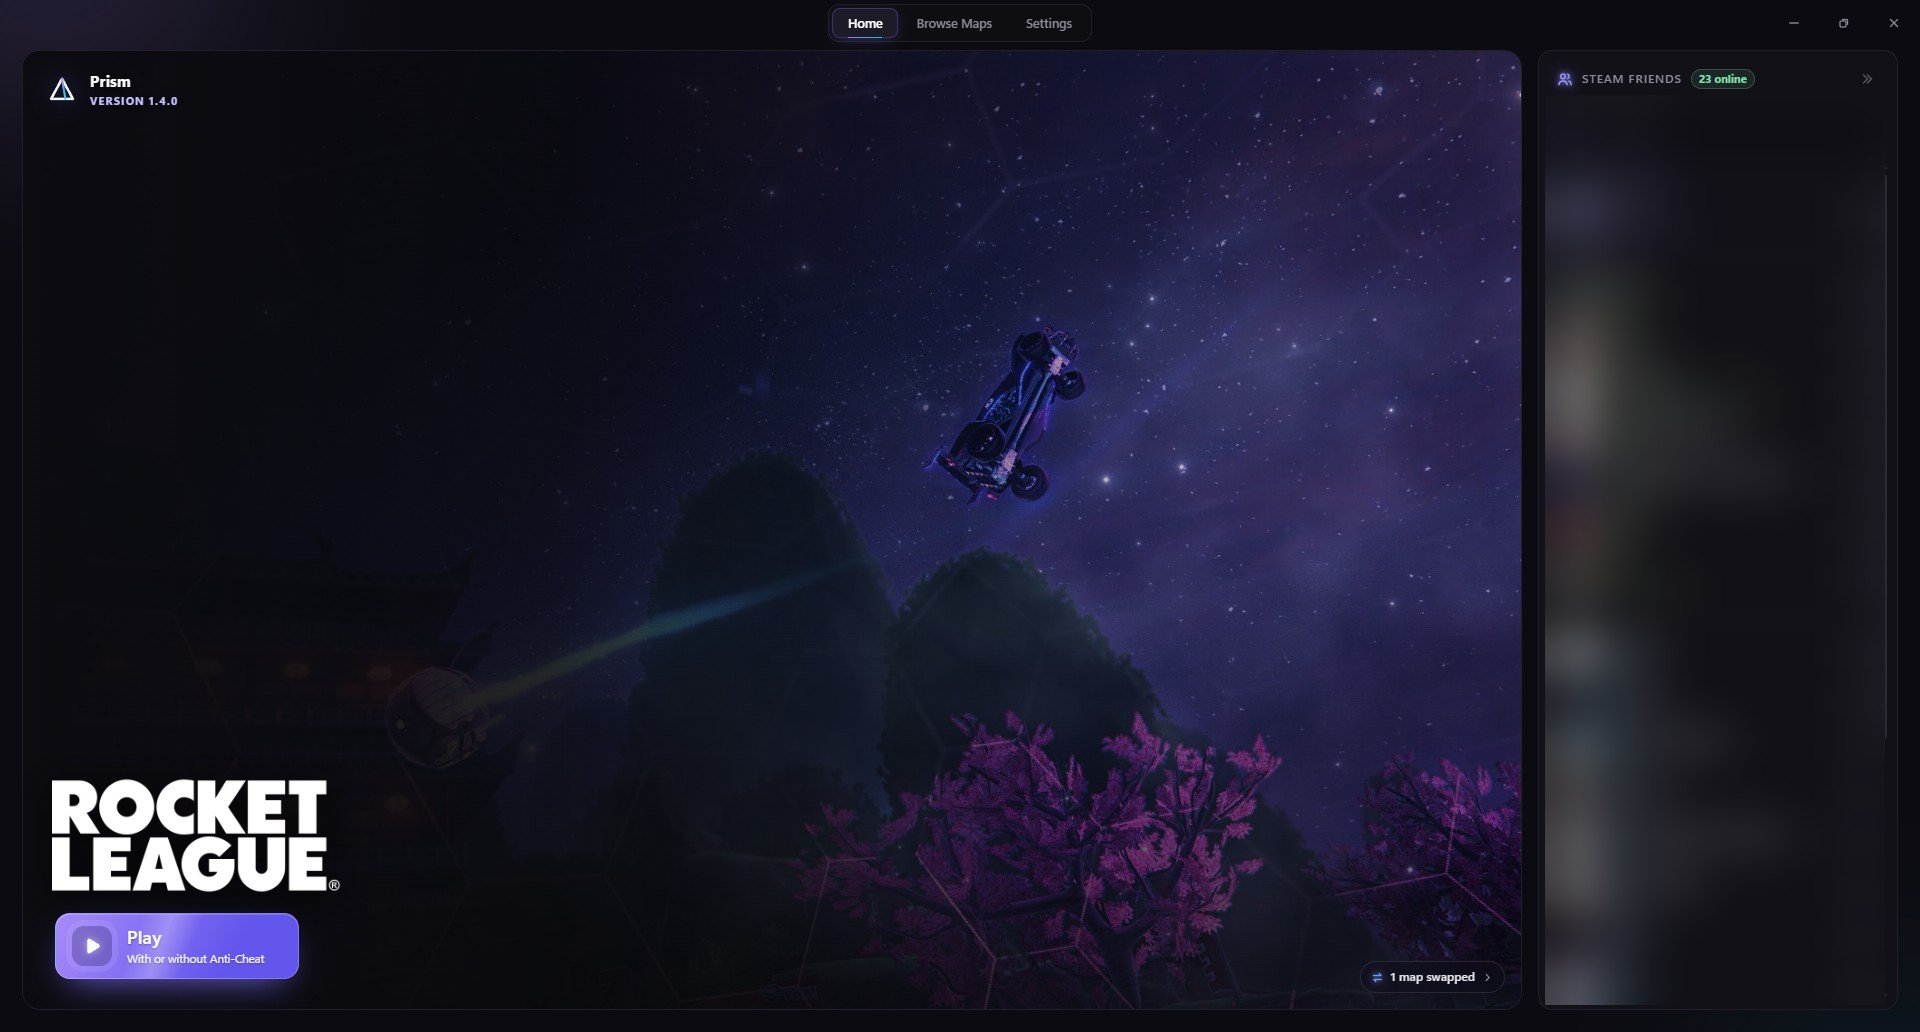
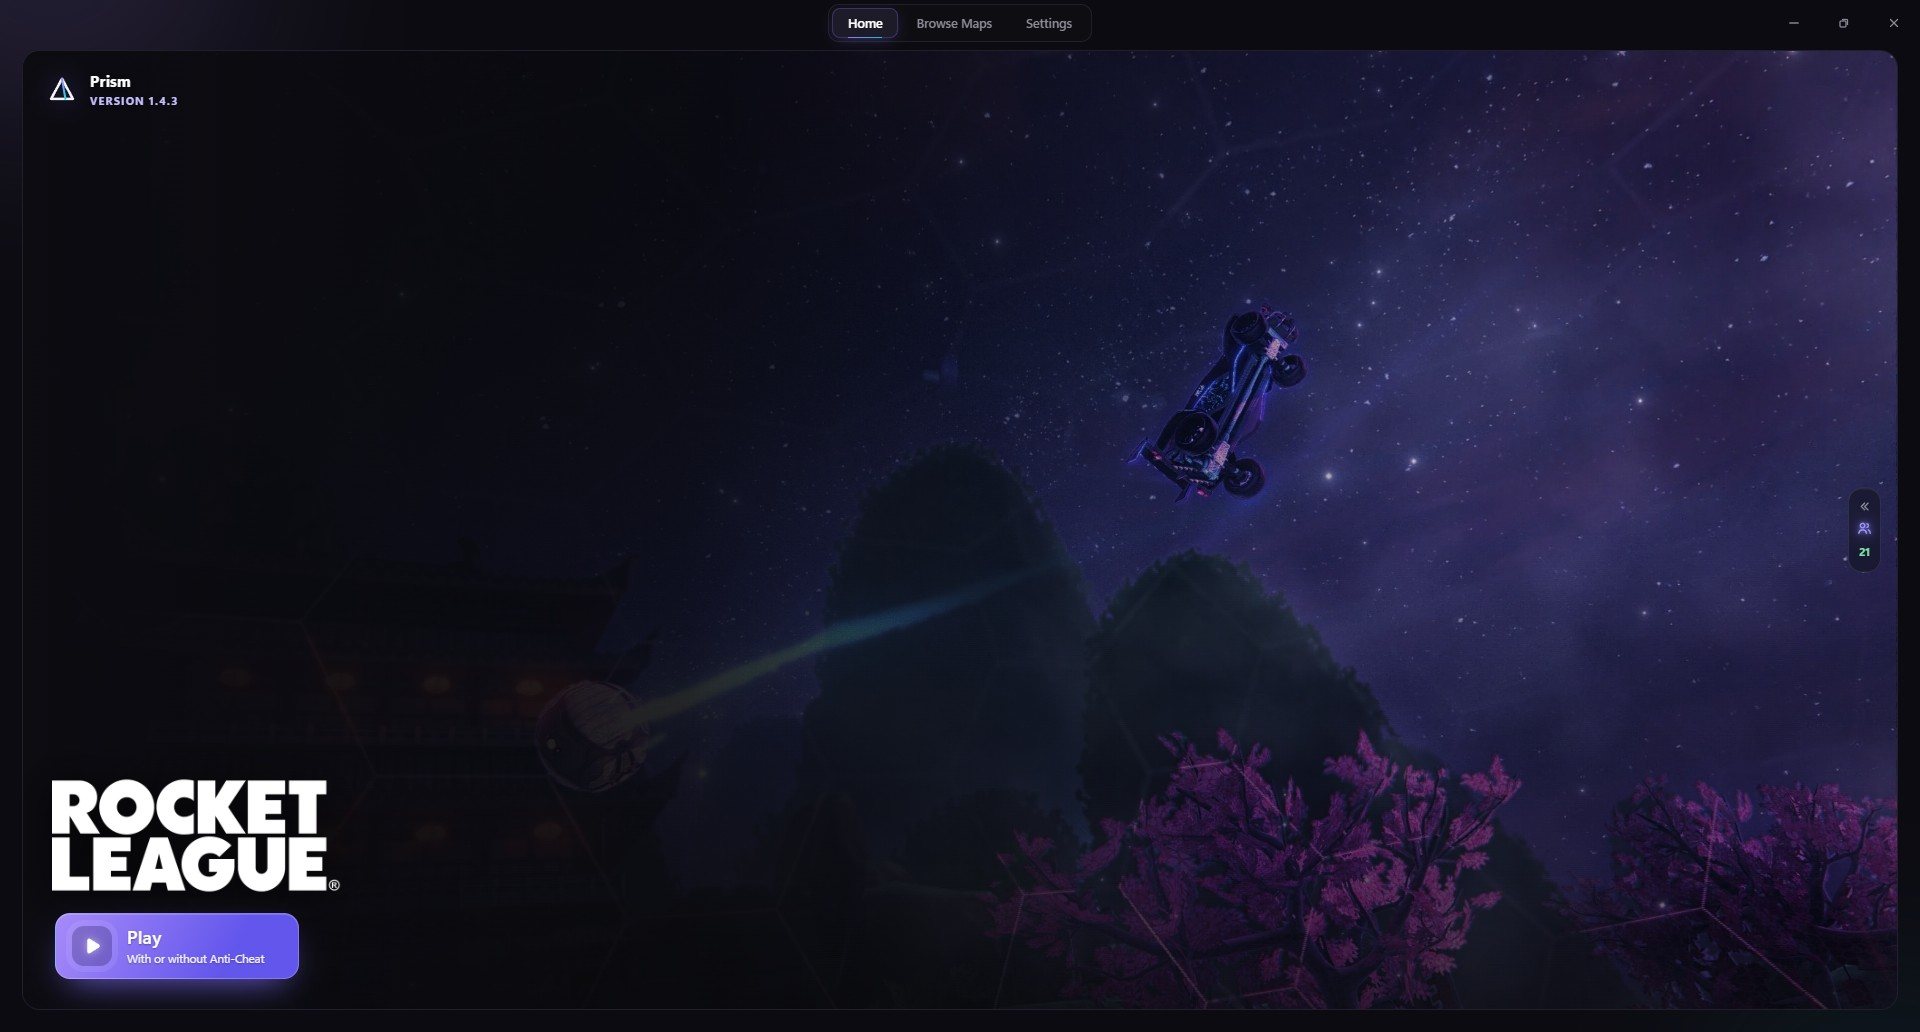
No Steam launch dialog: Steam overlay/Steam Input loaded on direct start; paint your own car body (menu + game); new launcher screenshot

diff --git a/ui.html b/ui.html
@@ -1489,8 +1489,6 @@
         <div class="srow nohov" id="rowKey"><span class="sic gi" data-ic="kbd"></span>
           <div class="tx"><b>Menu key</b><small id="keyHint">The key that opens the Prism menu in game.</small></div>
           <div class="kset"><button class="kreset hide" id="keyReset" title="Back to F8">Reset</button><button class="keycap" id="keyCap" aria-label="Change menu key"><span class="kl" id="keyLbl">F8</span></button></div></div>
-        <div class="srow" id="setSteamStart" role="switch" aria-checked="true" tabindex="0"><span class="sic gi" data-ic="play"></span>
-          <div class="tx"><b>Start through Steam</b><small>Keeps your Steam Input controller settings (deadzone, layout) and the Steam overlay. Steam asks how to start: pick <b>without Anti-Cheat</b> for the Prism menu.</small></div><span class="tg" id="tgSteamStart"></span></div>
         <div class="srow" id="setKeep" role="switch" aria-checked="false" tabindex="0"><span class="sic gi" data-ic="lock"></span>
           <div class="tx"><b>Swaps stay after quitting</b><small>Maps stay swapped when you quit Prism. You won't be asked to restore.</small></div><span class="tg" id="tgKeep"></span></div>
         <div class="srow nohov"><span class="sic gi" data-ic="swap"></span>
@@ -1819,7 +1817,6 @@ async function saveSetting(k, v){ try { if (has('setSetting')) await setSetting(
 function paintSettings(){
   paintKey(false);
   $('tgKeep').classList.toggle('on', !!settings.keepSwaps);
-  $('tgSteamStart').classList.toggle('on', !settings.directStart); $('setSteamStart').setAttribute('aria-checked', !settings.directStart);
   $('setKeep').setAttribute('aria-checked', !!settings.keepSwaps);
   $('tgItemMod').classList.toggle('on', settings.itemMod !== false); $('setItemMod').setAttribute('aria-checked', settings.itemMod !== false);
   $('tgPlayTray').classList.toggle('on', settings.trayOnPlay !== false); $('setPlayTray').setAttribute('aria-checked', settings.trayOnPlay !== false);
@@ -1895,7 +1892,7 @@ function toggleSetting(k){
   else { Sfx.ui('tab'); settings[k] = !settings[k]; paintSettings(); }
   saveSetting(k, settings[k]);
 }
-[['setSteamStart', 'directStart'], ['setKeep', 'keepSwaps'], ['setMute', 'mute'], ['setPlayTray', 'trayOnPlay'], ['setItemMod', 'itemMod'], ['setRpc', 'rpc'], ...RPC_CHIPS].forEach(([id, k]) => {
+[['setKeep', 'keepSwaps'], ['setMute', 'mute'], ['setPlayTray', 'trayOnPlay'], ['setItemMod', 'itemMod'], ['setRpc', 'rpc'], ...RPC_CHIPS].forEach(([id, k]) => {
   $(id).onclick = () => toggleSetting(k);
   $(id).onkeydown = e => { if (e.key === ' ' || e.key === 'Enter'){ e.preventDefault(); toggleSetting(k); } };
 });
@@ -2646,7 +2643,7 @@ async function launch(eac, force){
   const mine = home.launching;
   try {
     if (has('launchRL')) await launchRL(eac);
-    if (!settings.directStart) toast(eac ? 'Steam asks how to start: pick the option with Anti-Cheat.' : 'Steam asks how to start: pick the option without Anti-Cheat.', true);
+    if (eac) toast('Starting through Steam. If Steam asks once, pick "Play Rocket League" and tick "Remember".', true);
     if (settings.trayOnPlay !== false && has('autoTray')) autoTray();   // Prism geht in den Tray, kommt nach dem Spiel zurueck
     clearTimeout(home.lt); home.lt = setTimeout(() => { if (home.launching === mine){ home.launching = null; pollRL(); } }, 45000);
   } catch (e) {

diff --git a/mod/src/items.cpp b/mod/src/items.cpp
@@ -530,6 +530,8 @@ static void PaintList(ue::TArray<ue::TArray<void*>>* prods, ue::TArray<int32_t>*
 // Eigene (gekaufte) Items haben im PRI eine Inventar-ID (FullLoadouts[t].OnlineProducts). Mit dieser ID
 // laedt das Spiel das echte Produkt aus deinem Inventar - samt dessen Attributen (also ohne unsere Farbe).
 // Fuer eigene Items, die wir lackieren, nehmen wir die ID deshalb heraus (und setzen sie spaeter zurueck).
+struct OnlineId { uint64_t a = 0, b = 0; bool operator==(const OnlineId& o) const { return a == o.a && b == o.b; } };
+static bool PaintedId(int productId, int paintId, OnlineId& out);
 struct InstId { uint64_t a = 0, b = 0; };
 static int offLDOnline = -2;
 static std::map<std::pair<void*, int>, InstId> instOrig; // (Listen-Element) -> urspruengliche Inventar-ID
@@ -556,14 +558,20 @@ static bool OwnPaintIds(void* pri, const std::map<int, int>& ov, const std::map<
 			if (slot >= l->count || slot >= ids->count) continue;
 			InstId* e = &l->data[slot];
 			auto key = std::make_pair((void*)e, t);
-			bool want = !ov.count(slot) && WantedPaint(slot, ids->data[slot], pt) != 0;
-			if (want) {
-				if (e->a || e->b) {
+			int wantPaint = ov.count(slot) ? 0 : WantedPaint(slot, ids->data[slot], pt);
+			if (wantPaint) {
+				// Statt der Inventar-ID deines Items die ID einer lackierten Kopie eintragen (wie die Garage es macht).
+				// Nur die ID zu leeren reicht beim Auto nicht: dann bleibt es unlackiert.
+				InstId target{};
+				OnlineId oid;
+				if (PaintedId(ids->data[slot], wantPaint, oid)) target = InstId{oid.a, oid.b};
+				if (e->a != target.a || e->b != target.b) {
 					if (check) { ok = false; continue; }
-					instOrig[key] = *e;
-					*e = InstId{};
+					if (!instOrig.count(key)) instOrig[key] = *e;
+					*e = target;
 					static int n = 0;
-					if (n++ < 6) zl::Log("paint: your own item %d in slot %d -> painted copy", ids->data[slot], slot);
+					if (n++ < 8) zl::Log("paint: your own item %d in slot %d -> painted copy (paint %d, id %llx:%llx)", ids->data[slot], slot, wantPaint,
+						(unsigned long long)target.a, (unsigned long long)target.b);
 				}
 			} else {
 				auto o = instOrig.find(key);
@@ -1641,7 +1649,6 @@ void OnProcessEvent(void* caller, void* fn, void* params) {
 // ---------- Auto im Hauptmenue / in der Garage (CarPreviewActor_TA) ----------
 // Das Spiel setzt das Vorschau-Auto immer wieder aus deinem Profil. Wir schauen regelmaessig nach
 // und tauschen nur die Teile, die nicht passen, ueber die Garage-Funktion ChangeCarPart aus.
-struct OnlineId { uint64_t a = 0, b = 0; bool operator==(const OnlineId& o) const { return a == o.a && b == o.b; } };
 struct OwnPart { int id = 0; OnlineId online; };
 struct PreviewState {
 	std::map<int, OwnPart> orig;  // Slot -> eigenes Item (mit Online-ID, z. B. deine Lackierung)
@@ -1719,11 +1726,18 @@ static bool EnsureStore() {
 
 static bool PaintedId(int productId, int paintId, OnlineId& out) {
 	long long key = (long long)productId * 1000 + paintId;
+	static std::map<long long, void*> paintedOps; // Kopie lebt noch? (beim Laden einer Map kann sie weg sein)
 	auto it = paintedIds.find(key);
-	if (it != paintedIds.end()) { out = it->second; return true; }
-	static std::set<long long> failed;
-	if (failed.count(key)) return false;
-	failed.insert(key); // nur einmal versuchen; bei Erfolg unten wieder raus
+	if (it != paintedIds.end()) {
+		auto po = paintedOps.find(key);
+		if (po == paintedOps.end() || ue::IsAlive(po->second)) { out = it->second; return true; }
+		paintedIds.erase(it);
+		paintedOps.erase(po);
+	}
+	static std::map<long long, unsigned long long> failed; // nach einem Fehlschlag erst nach 3 s wieder versuchen
+	auto fl = failed.find(key);
+	if (fl != failed.end() && GetTickCount64() < fl->second) return false;
+	failed[key] = GetTickCount64() + 3000; // bei Erfolg unten wieder raus
 	if (!EnsureStore() || !fnTempId || !fnAddData || offAddData < 0 || offAddRet < 0 || offOPInstance < 0 || !fnAddAttribute) return false;
 	std::vector<uint8_t> t(size_t(ue::StructSize(fnTempId)) + 16, 0);
 	ue::Call(store, fnTempId, t.data());
@@ -1741,6 +1755,7 @@ static bool PaintedId(int productId, int paintId, OnlineId& out) {
 	ue::Call(op, fnAddAttribute, a.data());
 	out = ue::Read<OnlineId>(op, offOPInstance);
 	paintedIds[key] = out;
+	paintedOps[key] = op;
 	failed.erase(key);
 	zl::Log("paint menu: product %d in %d -> %s (id %llx:%llx)", productId, paintId, ue::Name(op).c_str(), (unsigned long long)out.a, (unsigned long long)out.b);
 	return true;
@@ -1858,6 +1873,7 @@ static void SyncPreview(void* actor, bool main) {
 		int ownId = f != forced.end() ? f->second : baseId(slot);
 		if (WantedPaint(slot, ownId, pt)) desired[slot] = ownId;
 	}
+	if (!bodyWant && desired.count(0) && 0 < prods->count) apply(0, desired[0]); // dein eigenes Auto lackiert
 	for (auto& [slot, id] : desired)
 		if (slot != 0 && slot < prods->count) apply(slot, id);
 	// Slots zurueck auf das eigene Item

diff --git a/home.go b/home.go
@@ -55,6 +55,29 @@ func (a *App) RLStatus() RLStatus {
 	return st
 }
 
+// Steam-Overlay (GameOverlayRenderer64.dll aus dem Steam-Ordner) frueh in Rocket League laden
+func steamOverlayInject(pid uint32) {
+	dll := filepath.Join(steamPath(), "GameOverlayRenderer64.dll")
+	if _, err := os.Stat(dll); err != nil {
+		return
+	}
+	for i := 0; i < 100; i++ { // bis zu 10 s: sobald der Prozess bereit ist
+		time.Sleep(100 * time.Millisecond)
+		if rlPID() != pid {
+			continue
+		}
+		if moduleLoaded(pid, "GameOverlayRenderer64.dll") {
+			return
+		}
+		if err := injectDLL(pid, dll); err == nil {
+			for j := 0; j < 20 && !moduleLoaded(pid, "GameOverlayRenderer64.dll"); j++ {
+				time.Sleep(50 * time.Millisecond)
+			}
+			return
+		}
+	}
+}
+
 // settings.json (vom Einstellungs-Menue) lesen
 func settingBool(key string, def bool) bool {
 	st := map[string]interface{}{}
@@ -90,23 +113,23 @@ func (a *App) LaunchRL(eac bool) error {
 		open("steam://rungameid/" + appID)
 		return nil
 	}
-	// Ueber Steam starten (Standard): nur dann gelten die Steam-Input-Einstellungen des Spielers
-	// (Controller-Layout, Deadzone, Empfindlichkeit) und das Steam-Overlay. Direkt gestartet liest das
-	// Spiel den Controller roh aus - das fuehlt sich anders an als normal.
-	if !settingBool("directStart", false) {
+	// Mit Anti-Cheat ueber Steam starten: nur so gelten Steam Input (Controller-Layout, Deadzone) und das
+	// Overlay - in den geschuetzten Prozess greift Prism nie ein. Steam fragt hoechstens einmal (Auswahl merken).
+	if eac {
 		open("steam://launch/" + appID + "/dialog")
-		if !eac {
-			modOnLaunch() // wartet, bis Rocket League laeuft; laedt nur, wenn ohne Anti-Cheat gestartet wurde
-		}
 		return nil
 	}
 	cmd := exec.Command(exe, args...)
 	cmd.Dir = bin
-	cmd.Env = append(os.Environ(), "SteamAppId="+appID, "SteamGameId="+appID)
+	// dieselbe Umgebung, die Steam beim Starten setzt
+	cmd.Env = append(os.Environ(), "SteamAppId="+appID, "SteamGameId="+appID, "SteamOverlayGameId="+appID, "SteamClientLaunch=1", "SteamEnv=1")
 	if err := cmd.Start(); err != nil {
 		return errors.New("Couldn't start Rocket League.")
 	}
 	go cmd.Wait() // Prozess laeuft unabhaengig von ZLauncher weiter
+	// Ohne Anti-Cheat: das Steam-Overlay laden, wie Steam es beim Start macht. Darueber laufen Steam Input
+	// (deine Controller-Einstellungen, Deadzone) und das Overlay (Shift+Tab) - ohne Startauswahl von Steam.
+	go steamOverlayInject(uint32(cmd.Process.Pid))
 	if !eac {
 		modOnLaunch() // Item-Menue (F8), nur ohne Anti-Cheat
 	}

diff --git a/mod/src/dllmain.cpp b/mod/src/dllmain.cpp
@@ -11,7 +11,7 @@
 #include "ue.h"
 
 static DWORD WINAPI Start(LPVOID) {
-	zl::Log("Prism mod loaded");
+	zl::Log("Prism mod loaded (Steam overlay / Steam Input: %s)", GetModuleHandleW(L"GameOverlayRenderer64.dll") ? "loaded" : "not loaded");
 	// warten, bis die Engine ihre Objekte angelegt hat
 	bool ok = false;
 	for (int i = 0; i < 180 && !ok; i++) {
